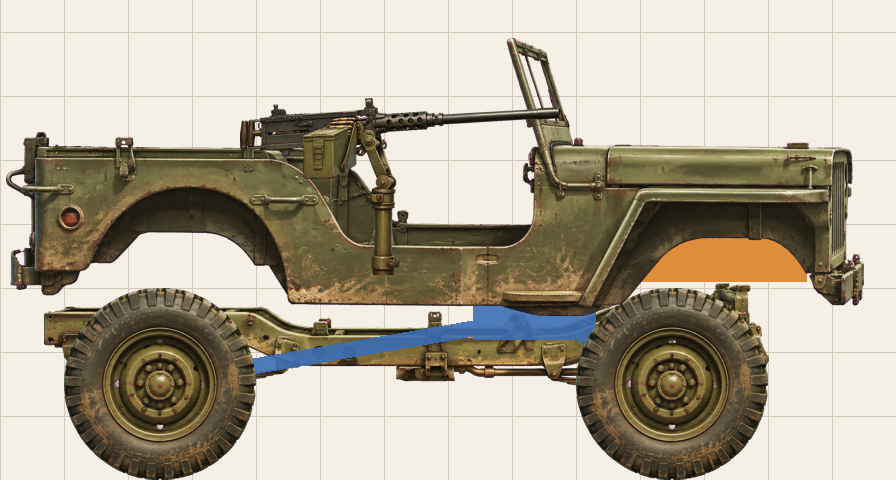
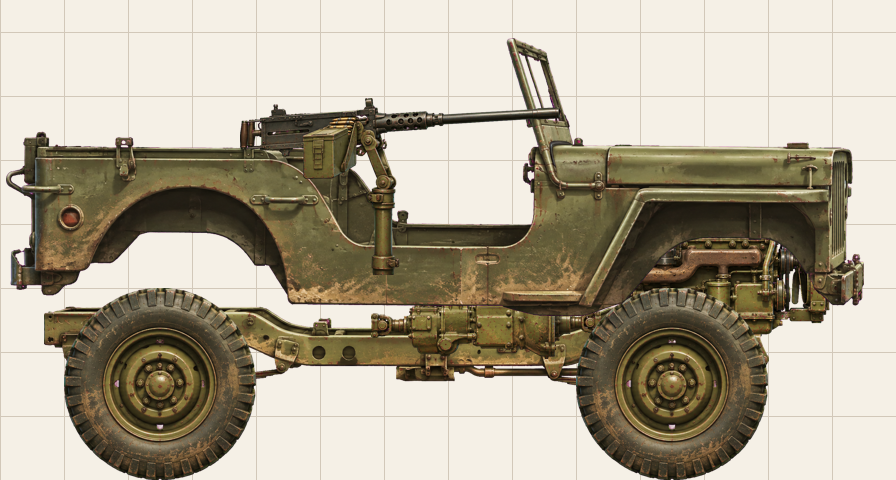
Willys MB complet ; plan de production des images et instructions ChatGPT générales
Claude-Session: https://claude.ai/code/session_01FR7p1QUb8fBr6W3co8Fome

Changed region(s): [[0.2812, 0.625, 0.6875, 0.7812], [0.6875, 0.4688, 0.9375, 0.7188]]

diff --git a/docs/art/PRODUCTION.md b/docs/art/PRODUCTION.md
@@ -1,0 +1,114 @@
+# Production des images — file de priorité
+
+Géré par Claude. ChatGPT produit **le lot marqué « en cours »**, et seulement lui.
+Le porteur de projet donne le feu vert et transmet les images ; Claude les découpe,
+les range, met à jour `asset-register.csv` et passe le lot suivant « en cours ».
+
+Règles générales de dessin : `docs/art/CHATGPT.md`. Bible de style : `docs/design/GRAPHISMES.md`.
+Échelle commune : 1 cellule = 25 cm = 64 px (une personne de 1,75 m = 7 cellules = 448 px).
+
+## File
+
+| # | Lot | Images | Statut | Rangement (sous `docs/art/`) |
+|---|---|---|---|---|
+| 1 | Willys MB : moteur, transmission | 1 planche | validé | `vehicules/willys_mb/art/` |
+| 2 | Icônes des 6 ressources | 1 planche | **en cours** | `ui/` |
+| 3 | Décor désert, 4 couches | 4 images | à faire | `decor/` |
+| 4 | Bâtiments A : atelier (référence de style des bâtiments) | 1 image | à faire | `batiments/` |
+| 5 | Bâtiments B : cuve, puits/condenseur, entrepôt, cuisine | 1 planche | à faire | `batiments/` |
+| 6 | Bâtiments C : infirmerie, nid de mitrailleuse, tour de guet | 1 planche | à faire | `batiments/` |
+| 7 | Survivants : 6 poses | 1 planche | à faire | `personnages/` |
+| 8 | Faune : meute, prédateur, nuée | 1 planche | à faire | `faune/` |
+| 9 | Carte : fond et 7 icônes de lieux | 2 images | à faire | `carte/` |
+| 10 | Calques de dégâts et effets | 1 planche | à faire | `fx/` |
+| 11 | Véhicules 2 à 10 (cahier rédigé par Claude avant chaque véhicule) | 1 à 2 par véhicule | à faire | `vehicules/<id>/art/` |
+| 12 | Icônes d'actions de l'interface | — | bloqué : écrans pas encore conçus | `ui/` |
+| 13 | Illustrations de récit (6 à 8) | — | bloqué : système 8 (récit) | `recit/` |
+
+Pourquoi cet ordre : le premier prototype est l'atelier (véhicule + ressources), puis
+l'écran de base (décor, bâtiments, survivants), puis les expéditions (faune, carte,
+effets). Les lots dont la conception n'est pas finie sont bloqués pour éviter de
+redessiner.
+
+## Cahiers des lots
+
+L'ordre des pièces dans chaque liste est **l'ordre de lecture sur la planche**
+(de gauche à droite, ligne par ligne) : Claude nomme les fichiers dans cet ordre.
+
+### Lot 1 — Willys MB : moteur, transmission
+
+Voir `docs/art/vehicules/willys_mb/CAHIER.md`. Planche : `transmission` en haut, `moteur` en dessous.
+
+### Lot 2 — Icônes des ressources
+
+6 icônes carrées, même taille, en une ligne : eau (jerrican d'eau ou gourde),
+nourriture (boîte de conserve et pain), carburant (jerrican rouge), métal (pile de
+ferraille), matériaux (planches, câbles et pièces), munitions (cartouches et caisse).
+Objet seul, vue de 3/4 autorisée **pour les icônes uniquement**, lisible à 64 px :
+silhouette forte, peu de détails. Taille finale 256 × 256 px.
+
+### Lot 3 — Décor désert (parallaxe)
+
+4 images **séparées**, très larges (format le plus panoramique possible), vue de
+profil, horizon à la même hauteur sur les 4. Les bords gauche et droit doivent
+pouvoir se raccorder (Claude corrige le raccord).
+
+1. `ciel` : ciel de jour poussiéreux, soleil voilé, opaque (pas de magenta).
+2. `lointain` : chaîne de montagnes arides, très estompée par la brume de chaleur.
+3. `moyen` : dunes et rochers, quelques carcasses lointaines (pylône, épave d'avion).
+4. `sol` : bande de sol de premier plan (sable tassé, cailloux, traces de chenilles),
+   le dessus plat sert de ligne de roulage.
+
+Couches 2 à 4 sur fond magenta. Aucun bâtiment, aucun véhicule entier, aucun personnage.
+
+### Lots 4 à 6 — Bâtiments (niveau 1)
+
+Vue de profil stricte, façade face au spectateur, posés sur une ligne de sol plate
+(sans sol dessiné). Construits de récupération : tôle ondulée, bois, sacs de sable,
+pièces de véhicules. Les niveaux 2 et 3 viendront plus tard (amélioration du même
+bâtiment). Tailles (largeur × hauteur) :
+
+| Bâtiment | Description | Taille (m) | Cellules |
+|---|---|---|---|
+| `atelier` | Hangar en tôle ouvert sur le côté, palan, établi, fosse | 8 × 5 | 32 × 20 |
+| `cuve` | Citerne métallique cylindrique couchée sur tréteaux, robinet | 3 × 3 | 12 × 12 |
+| `puits` | Puits avec chevalet et pompe à bras, condenseur à tubes à côté | 3 × 4 | 12 × 16 |
+| `entrepot` | Abri bas en tôle, caisses et fûts empilés | 6 × 4 | 24 × 16 |
+| `cuisine` | Abri ouvert, fourneau et cheminée en tuyau de poêle | 5 × 3,5 | 20 × 14 |
+| `infirmerie` | Tente militaire à croix effacée (pas de croix rouge nette : emblème protégé) | 5 × 3 | 20 × 12 |
+| `nid_mitrailleuse` | Sacs de sable en arc, mitrailleuse sur trépied, sans servant | 3 × 2 | 12 × 8 |
+| `tour_guet` | Tour en poutres et tôle, plateforme, projecteur | 3 × 7 | 12 × 28 |
+
+Lot 4 : l'atelier seul (il fixe le style des bâtiments). Lot 5 et 6 : planches dans
+l'ordre du tableau.
+
+### Lot 7 — Survivants
+
+6 poses d'un même type de survivant, vue de profil tournée vers la droite, 1,75 m :
+debout, marche, porte une caisse, travaille avec un outil, tient un fusil, assis.
+Vêtements militaires dépareillés des années 1940, foulard et lunettes de protection
+qui **cachent le visage** (pas de visage détaillé). Même échelle sur toute la planche.
+
+### Lot 8 — Faune (désert)
+
+Animaux réels, adaptés et redoutables, **pas de mutants** (ton sérieux). Vue de
+profil tournée vers la droite, posture d'attaque.
+
+| Pièce | Animal (proposition à valider) | Taille |
+|---|---|---|
+| `meute` | Chien sauvage du désert, maigre et musclé (un seul individu, multiplié en jeu) | 1,2 m de long |
+| `predateur` | Grand lion du désert à crinière clairsemée, cicatrices | 3 m de long |
+| `nuee` | Nuée de criquets en essaim (forme de nuage) | 4 m de large |
+
+### Lot 9 — Carte
+
+1. `fond_carte` : carte militaire d'état-major usée (papier jauni, taches, plis),
+   relief désertique dessiné, **sans aucun nom ni texte**, format paysage.
+2. Planche de 7 icônes (style tampon ou punaise dessinée, lisibles à 64 px) :
+   base, oasis, ferme abandonnée, dépôt de carburant, champ de bataille, village, ville.
+
+### Lot 10 — Dégâts et effets
+
+Une planche, chaque élément isolé : 3 impacts de balles (groupes), 1 trou d'obus,
+1 plaque de rouille, 1 traînée d'huile, 1 panache de fumée noire, 1 flamme,
+1 nuage de poussière, 1 éclair de tir. Fond magenta, pas de véhicule dessous.

diff --git a/docs/art/CHATGPT.md b/docs/art/CHATGPT.md
@@ -1,63 +1,44 @@
 # Instructions pour ChatGPT — production des images
 
-Tu produis les images du jeu Folie Mécanique (iPhone, 2D, vue de profil, années 1940
-post-apocalyptiques). Claude prépare les cahiers des charges et recombine les pièces ;
-toi, tu dessines **une pièce à la fois**.
+Tu produis les images du jeu Folie Mécanique (iPhone, 2D, mode paysage, années 1940
+post-apocalyptiques, désert). Claude gère le plan de production, découpe tes planches et
+range les images. Le porteur de projet te donne le feu vert.
 
-## À lire, dans cet ordre
+## À chaque feu vert
 
-1. `docs/design/GRAPHISMES.md` : bible de style, règles, méthode (DEC-020, DEC-021).
-2. Le cahier du véhicule en cours : `docs/art/vehicules/<vehicule>/CAHIER.md`
-   (consigne commune, consigne par pièce, tailles, critères d'acceptation).
-3. La géométrie : `docs/art/vehicules/<vehicule>/gabarit.json` (cellule = 25 cm,
-   64 px par cellule, origine au sol à l'arrière, véhicule orienté vers la droite).
+1. Lis `docs/art/PRODUCTION.md` et prends **le lot marqué « en cours »** (un seul).
+2. Lis son cahier (dans `PRODUCTION.md`, ou le fichier qu'il indique).
+3. Annonce en une ligne par image ou pièce : nom, proportions, ce qu'elle ne doit pas
+   contenir. Puis génère.
+4. Ne passe jamais au lot suivant de toi-même : c'est Claude qui le débloque dans le dépôt.
 
+## Style (toutes les images)
 
-## Règles impératives
+- Peinture numérique semi-réaliste, dans l'esprit d'*Earn to Die*, ambiance Mad Max,
+  technologie des années 1940. Ton sérieux.
+- Lumière du haut à gauche, ombres douces, palette : ocre, sable, rouille, kaki olive
+  délavé, acier usé. Tout est usé, poussiéreux, rafistolé.
+- Référence de style : `docs/art/vehicules/willys_mb/art/caisse.png` (validée).
+  L'utilisateur la joint si tu ne peux pas l'ouvrir.
+- Aucun texte, chiffre, logo, marque, drapeau ou croix rouge nette.
 
-- Chaque pièce est complète et isolée : rien d'une autre pièce (pas de roue dans la caisse).
-- Vue de profil stricte, orientée vers la droite, sans perspective.
-- Lumière du haut à gauche, ombres douces, rendu peint semi-réaliste.
-- Fond uni magenta pur `#FF00FF`, ou transparent si possible. Pas d'ombre au sol.
-- Aucun texte, logo, marque ou personnage.
-- Respecter la silhouette et les proportions du gabarit `gabarits/<piece>.png`
-  (l'utilisateur le joint à la conversation si tu ne peux pas l'ouvrir).
-- Rapport largeur/hauteur de l'image = celui de la taille en cellules du cahier.
-- Après la caisse validée, garder exactement le même style, la même usure et la même
-  lumière pour toutes les autres pièces.
+## Cadrage
 
-## Planche unique (méthode par défaut)
+- **Vue de profil stricte, sans perspective**, sujets orientés vers la droite.
+  Seule exception : les icônes d'interface et de carte (3/4 autorisé).
+- Fond uni magenta pur `#FF00FF`, ou transparent si possible. Pas d'ombre au sol,
+  pas de sol dessiné (sauf couche `sol` du décor).
+- Respecter les proportions données en mètres ou en cellules
+  (1 cellule = 25 cm = 64 px).
 
-Toutes les pièces demandées sont dessinées **sur une seule image**, pour garantir le même
-style et la même lumière. Claude les sépare automatiquement ; pour que ça fonctionne :
+## Planche (plusieurs éléments sur une image)
 
-- **Une seule vue par pièce** : profil strict. Aucune vue de face, de 3/4 ou de détail
-  en plus.
-- **Toutes orientées vers la droite** (canon, calandre, avant du véhicule).
-- Pièces **séparées par au moins 40 px de fond magenta**, sans aucun contact.
-- Disposition en lignes, dans l'ordre du cahier, la pièce la plus longue en haut,
-  sur toute la largeur.
-- Aucun texte, aucune légende, aucun numéro.
-- Proportions entre les pièces **à la même échelle** (une roue de 3 cellules est
-  3 fois plus haute qu'une pièce d'une cellule).
-
-Exception : pour les gros véhicules (chars, camions), la caisse est dessinée seule sur
-sa propre image, pour garder assez de détails.
-
-Référence de style : `docs/art/vehicules/willys_mb/art/caisse.png` (validée). Joindre
-cette image pour tout nouveau véhicule.
-
-## Véhicule en cours
-
-Willys MB : caisse, chassis, roue, mitrailleuse validées. Restent : **moteur et
-transmission**, sur une seule planche.
-
-## Avant de dessiner chaque pièce
-
-Rappelle en une ligne par pièce : son nom, son rapport largeur/hauteur, ce qu'elle ne
-doit pas contenir. Puis génère la planche.
+- Une seule vue par élément, aucune vue en plus.
+- Éléments **séparés par au moins 40 px de magenta**, sans aucun contact.
+- **Ordre de lecture = ordre de la liste du cahier** (gauche à droite, ligne par ligne) :
+  Claude nomme les fichiers dans cet ordre.
+- Tous les éléments d'une planche à la même échelle.
 
 ## Livraison
 
-Tu n'écris pas dans le dépôt. L'utilisateur télécharge l'image et la transmet à Claude,
-qui la détoure, l'enregistre dans `art/<piece>.png` et vérifie l'assemblage.
+Tu n'écris pas dans le dépôt. L'utilisateur télécharge l'image et la transmet à Claude.

diff --git a/STATE.md b/STATE.md
@@ -34,7 +34,7 @@ Désert seul, faune en événements, solo hors ligne sans serveur, sièges en V1
    Thème 3 (achats) : `docs/design/ACHATS.md`, garde-fou dans `regles_canoniques.json` (v1.7).
    Thème 4 (périmètre V1) : `docs/design/PERIMETRE_V1.md` (DEC-013).
    Thème 5 (systèmes) : `docs/design/SYSTEMES.md` — systèmes 1 ressources (DEC-014) 2 travailleurs (DEC-015) 3 véhicules (DEC-016) 4 expéditions (DEC-017) 5 combat (DEC-018) et 6 faune (DEC-019) validés.
-   Thème 6 (graphismes) : `docs/design/GRAPHISMES.md` (DEC-020) — IA générative, semi-réaliste peint, pièce par pièce sur gabarit (DEC-021), pilote Willys MB : `docs/art/vehicules/willys_mb/CAHIER.md`.
+   Thème 6 (graphismes) : `docs/design/GRAPHISMES.md` (DEC-020) — IA générative, semi-réaliste peint, pièce par pièce sur gabarit (DEC-021), Willys MB complet. Production d'images : `docs/art/PRODUCTION.md` (file de priorité, lot en cours).
    **Prochain : systèmes 7 (temps, absence, pénurie) et 8 (récit)** dans `SYSTEMES.md`.
 2. Rééquilibrer l'économie de départ, relancer la simulation (désert seul, rattrapage hors ligne) avec jour/nuit,
    planchers d'absence, profils « joueur absent » et « abonné » (voir `BOUCLE.md`).

diff --git a/docs/art/vehicules/willys_mb/CAHIER.md b/docs/art/vehicules/willys_mb/CAHIER.md
@@ -1,6 +1,6 @@
 # Cahier des charges — Willys MB (véhicule pilote)
 
-Statut : pilote de la méthode pièce par pièce (DEC-021). Géométrie : `gabarit.json`.
+Statut : **complet, validé le 2026-10-29** (pilote de la méthode, DEC-021). Moteur et transmission dessinés vers la gauche puis retournés. Géométrie : `gabarit.json`.
 Cotes de prototypage (L 3,36 m, H 1,78 m pare-brise relevé), à affiner sur plans.
 
 ## Méthode
